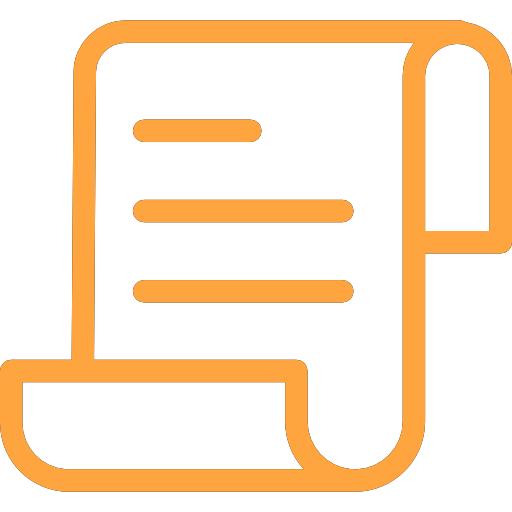
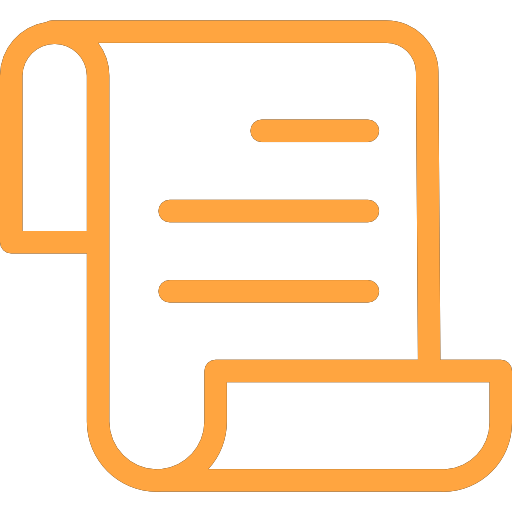
fix: tekliflendir butonundaki + isareti kaldirildi, bill_icon.png guncellendi

diff --git a/js/servis.js b/js/servis.js
@@ -185,7 +185,7 @@ function renderTable(){
     // Teklif butonu: S.F. Bekleniyor + teklif yok → Tekliflendir; teklif varsa → Teklife Git
     let teklifBtn='';
     if(!isArsiv){
-      if(canEdit&&isSFBekleniyor&&!hasTeklif)teklifBtn=`<button class="btn-icon" title="Tekliflendir" style="color:var(--amber);border-color:rgba(245,158,11,.3)" onclick="tekliflendir('${s.id}')">＋<img src="icons/bill_icon.png" alt="Tekliflendir" style="width:14px;height:14px;display:block"></button>`;
+      if(canEdit&&isSFBekleniyor&&!hasTeklif)teklifBtn=`<button class="btn-icon" title="Tekliflendir" style="color:var(--amber);border-color:rgba(245,158,11,.3)" onclick="tekliflendir('${s.id}')"><img src="icons/bill_icon.png" alt="Tekliflendir" style="width:14px;height:14px;display:block"></button>`;
       else if(hasTeklif)teklifBtn=`<button class="btn-icon" title="Teklife Git" style="color:var(--amber);border-color:rgba(245,158,11,.3)" onclick="tekliflendir('${s.id}')"><img src="icons/bill_icon.png" alt="Teklife Git" style="width:14px;height:14px;display:block"></button>`;
     }
     return`<tr${isArsiv?' style="opacity:0.8"':''}>
